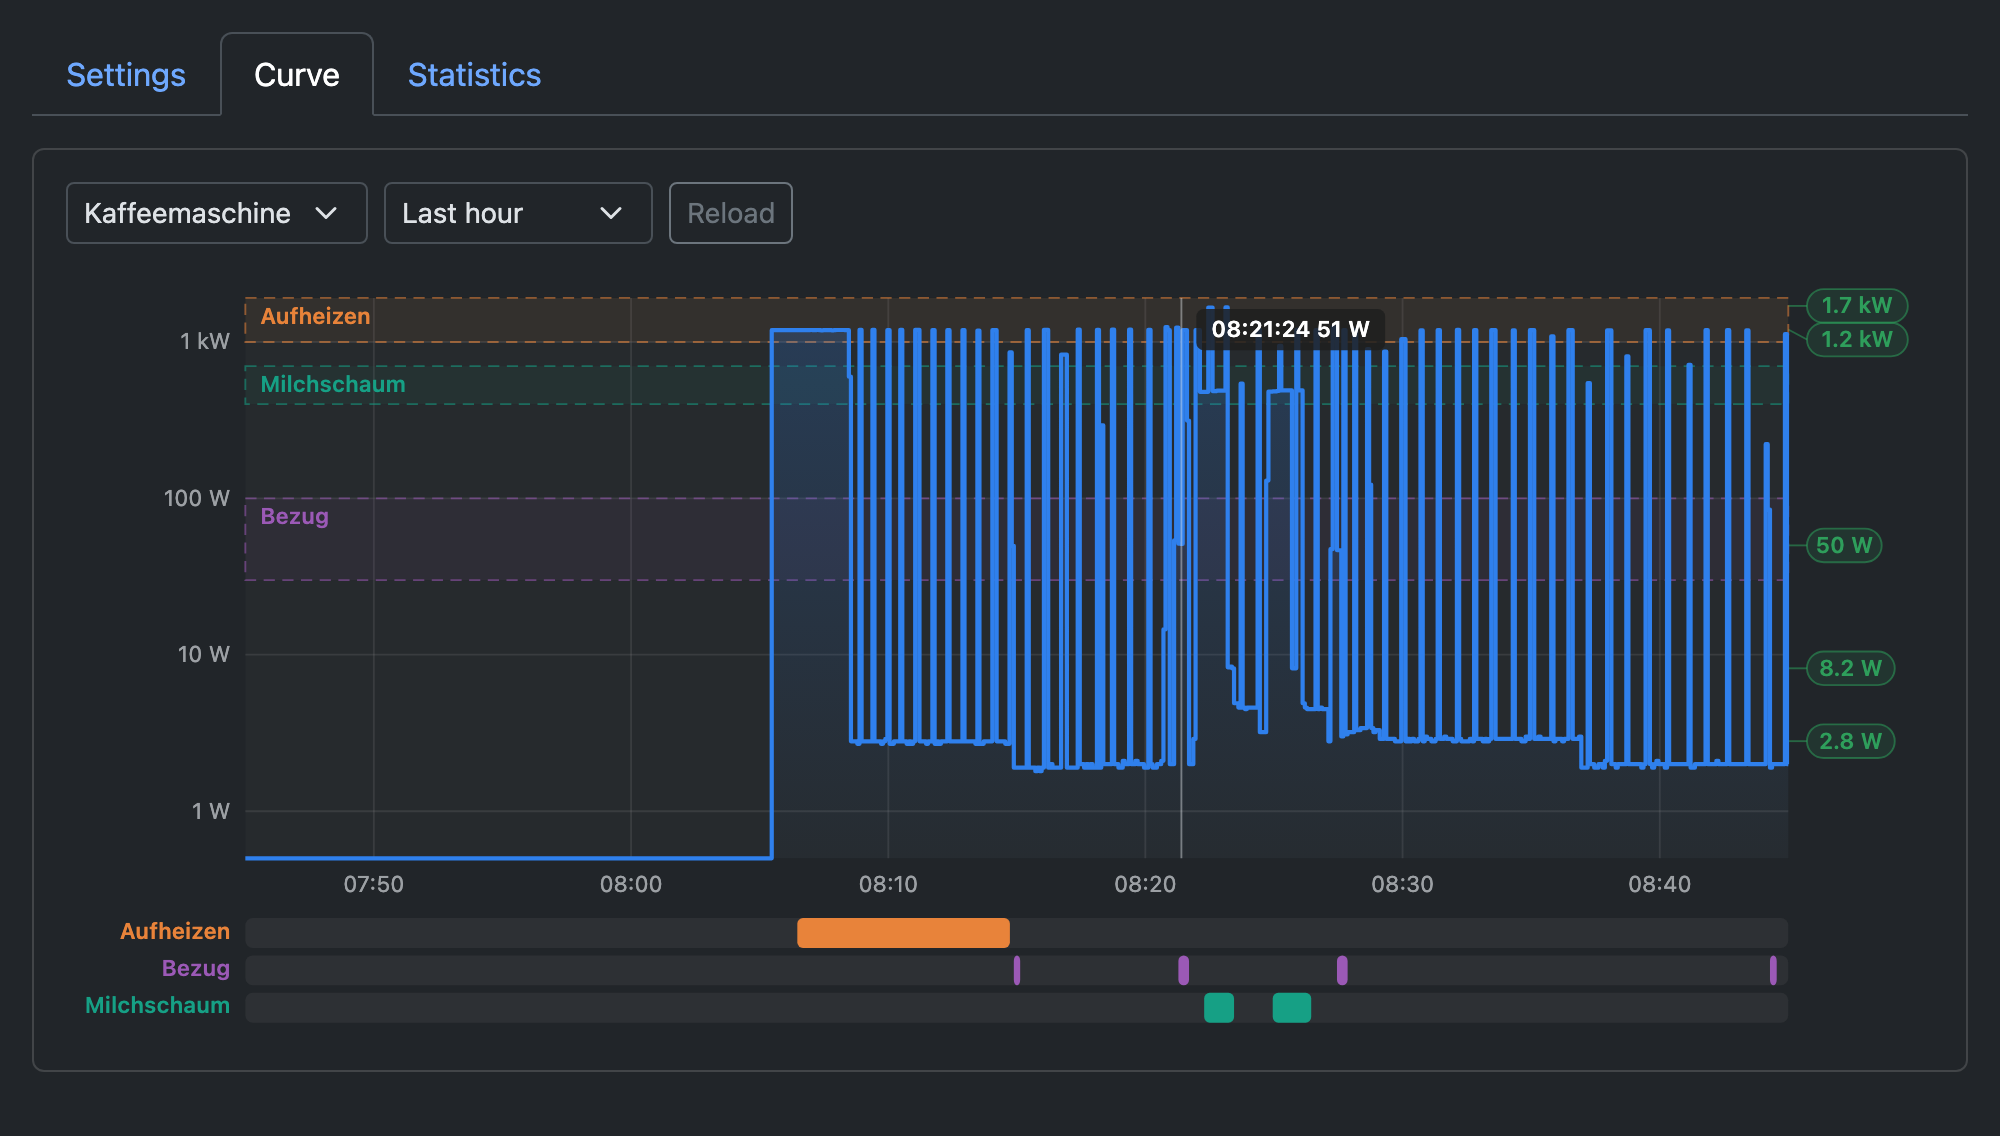
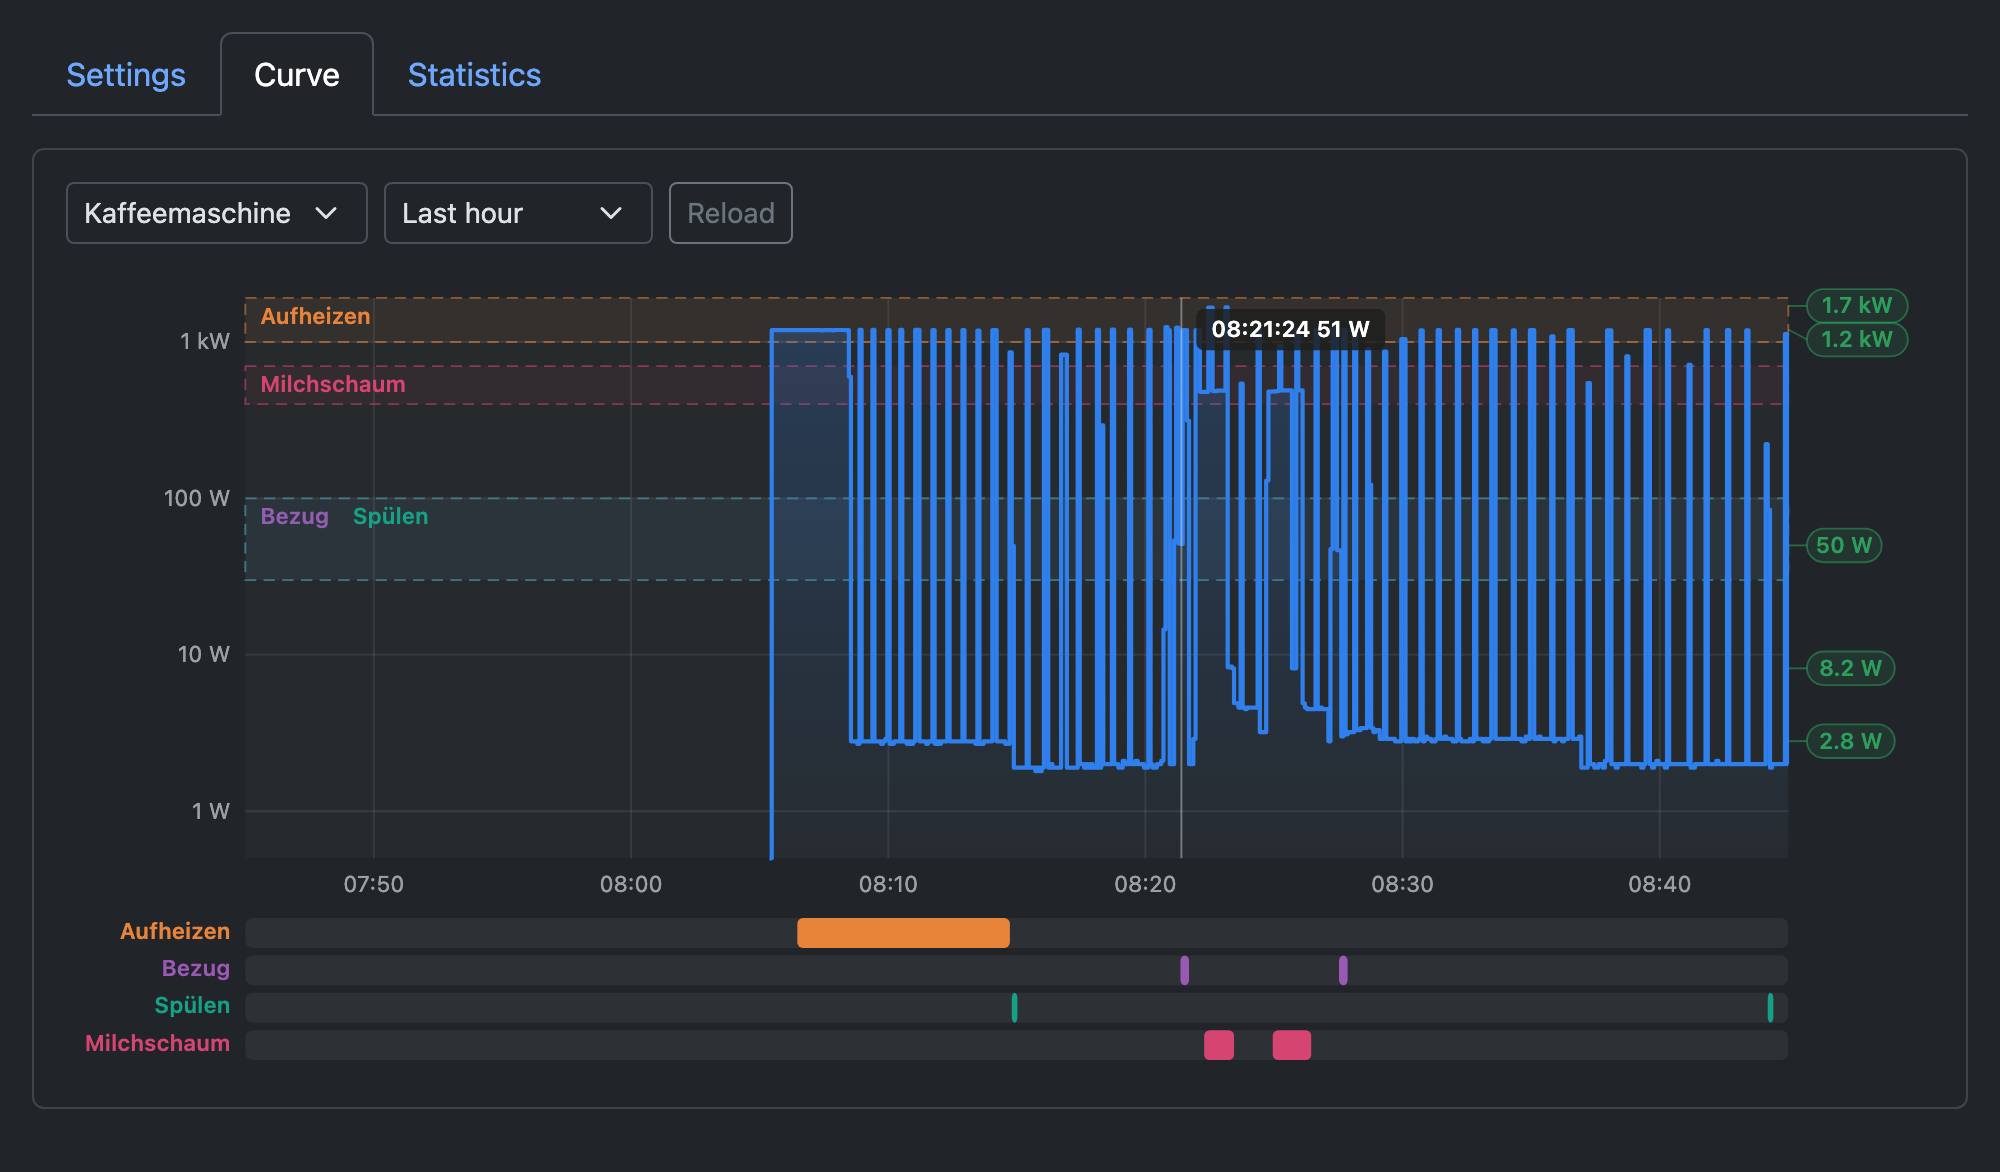
0.11.1: fresh screenshots, README brought up to date, side-by-side band labels
Claude-Session: https://claude.ai/code/session_013k9m3T7cAtsGWZfbXq9vGr

diff --git a/homebridge-ui/public/chart.js b/homebridge-ui/public/chart.js
@@ -182,13 +182,18 @@
       );
     }
 
-    // Phases already set up, each in its colour.
+    // Phases already set up, each in its colour. Two in the same range — a
+    // coffee and a rinse, told apart by how long — have their names side by
+    // side rather than on top of each other.
+    const labels = [];
     for (const phase of usable) {
       const y1 = f(yOf(Number.isFinite(phase.max) ? phase.max : 10 ** logMax));
       const y2 = f(yOf(phase.min));
+      const x = Math.max(PAD.left + 8, ...labels.filter((l) => Math.abs(l.y - y1) < 14).map((l) => l.end + 12));
+      labels.push({ y: y1, end: x + phase.name.length * 7.5 });
       parts.push(
         `<rect x="${PAD.left}" y="${y1}" width="${plotW}" height="${f(Math.max(3, y2 - y1))}" fill="${phase.colour}" fill-opacity="0.07" stroke="${phase.colour}" stroke-opacity="0.55" stroke-dasharray="6 4" class="om-phase"/>`,
-        `<text x="${PAD.left + 8}" y="${y1 + 14}" fill="${phase.colour}" class="om-phase-label">${escape(phase.name)}</text>`,
+        `<text x="${f(x)}" y="${y1 + 14}" fill="${phase.colour}" class="om-phase-label">${escape(phase.name)}</text>`,
       );
     }
 

diff --git a/README.md b/README.md
@@ -59,9 +59,10 @@ Each appliance is in one of three states:
 - **Finished**: the draw has stayed below the running level for longer than
   the longest pause in the programme.
 
-In HomeKit, Running is a switch that is on while the appliance runs. It
-goes off only when the appliance finishes, so "when Running turns off" is
-"when it is done". See [In the Home app](#in-the-home-app).
+In HomeKit, Running is a switch that is on while the appliance runs, or an
+occupancy sensor for a desk. It goes off only when the appliance finishes, so
+"when Running turns off" is "when it is done". See
+[In the Home app](#in-the-home-app).
 
 ### Learning
 
@@ -179,8 +180,8 @@ for its dates.
 
 Today counts from a plug's first reading of the day, so a plug added at noon
 shows its afternoon. A week or a month is shown only if a plug has been
-counted for all of it, and left empty until then. A year is shown once it is over even if the plug joined partway
-through, marked ¹ as part of a year: a plug added in September 2026 shows its
+counted for all of it, and left empty until then. A year is shown once it is
+over even if the plug joined partway through, marked ¹ as part of a year: a plug added in September 2026 shows its
 2026 from the 1st of January 2027. Where some plugs have a value and others do
 not yet, the total adds up those that have, and is marked with an asterisk.
 
@@ -192,7 +193,9 @@ all along, so ticking another phase shows its count from when the phase was
 set up, not from when it was ticked.
 
 The energy is worked out from the power readings, per local calendar day,
-while Homebridge is running. Time it was not running is not counted.
+while Homebridge is running. Time it was not running is not counted. The
+statistics keep only the total per plug and day, for a little over two years,
+so they do not depend on how many days of recordings are kept.
 
 ## Requirements
 
@@ -287,9 +290,9 @@ appliance is on.
     { "name": "Washing machine", "pairingCode": "3497-011-2332" },
     {
       "name": "Dryer",
-      "runningSwitch": false,
       "thresholds": { "runWatts": 20 }
-    }
+    },
+    { "name": "Desk", "runningAs": "occupancy" }
   ],
   "recordPower": true,
   "matterLogLevel": "warn"
@@ -298,7 +301,7 @@ appliance is on.
 
 | Option | Default | |
 | --- | --- | --- |
-| `devices[].name` | — | Name of the accessory, and of its switches, log lines and recording. |
+| `devices[].name` | — | The appliance. Its accessory is called "<name> Monitor", and its Running switch "<name> Running"; also the name in the log and the recordings. |
 | `devices[].pairingCode` | — | Setup code from the Home app, or an `MT:` QR payload. Only needed until paired. |
 | `devices[].runningSwitch` | `true` | Running in HomeKit, on while the appliance runs. |
 | `devices[].runningAs` | `switch` | `switch`, or `occupancy` for an occupancy sensor (a desk, taken or free). Changing it replaces it in HomeKit, with any automation on it. |
@@ -309,7 +312,7 @@ appliance is on.
 | `devices[].phases` | none | Phases: `name`, `minWatts`, and optionally `count` (show it as the appliance's count on the Statistics tab), `maxWatts` (none for no upper end, as for heating), `minSeconds` (in the range, added up, before it is on; 5), `holdSeconds` (out of it before it is off; 30), `maxSeconds` (only draws shorter than this, in the range; any; see above) and `sensor` (its switch in HomeKit; `true`). |
 | `devices[].pollSeconds` | none | Ask the plug for its power this often, as well as listening for what it reports. See below. |
 | `recordPower` | `true` | Write each reading to a file per day under `appliance-monitor/power/`. The Curve tab needs it. |
-| `recordDays` | `14` | How many days of those files to keep. |
+| `recordDays` | `14` | How many days of those files to keep, for the Curve tab. The statistics do not need them. |
 | `matterLogLevel` | `warn` | How much of matter.js's own logging to show. |
 
 ## Files
@@ -319,11 +322,13 @@ All files are kept in the Homebridge storage folder, under `appliance-monitor/`:
 - `matter/`: the controller's fabric, certificates and what it knows about
   the plugs. Deleting it unpairs everything, as far as the plugin is concerned.
 - `nodes.json`: which configured name is which Matter node.
-- `devices.json`: what each appliance has learned, and the state it is in, so
-  that a running appliance is still running after a restart. Remove an appliance's `learned` entry
-  (with the child bridge stopped) to have it learn afresh.
-- `energy.json`: watt-hours per plug and day, for the Statistics tab. Written
-  every five minutes. Plugs removed from the config keep their history here.
+- `devices.json`: what each appliance has learned, the state it is in, so that
+  a running appliance is still running after a restart, and its counts.
+  Remove an appliance's `learned` entry (with the child bridge stopped) to
+  have it learn afresh.
+- `energy.json`: watt-hours per plug and day, for the Statistics tab, kept for
+  a little over two years. Written every five minutes. Plugs removed from the
+  config keep their history here.
 - `power/`: one file per day, `time,device,endpoint,watts`, one line per
   reading. Older than `recordDays` is deleted.
 
@@ -332,7 +337,7 @@ All files are kept in the Homebridge storage folder, under `appliance-monitor/`:
 On each start, one line per plug: what it is, what it draws, its state, and
 whether it has learned yet. Everything a plug offers is listed once, when it
 is paired. After that the log has the changes: Running, Finished, Off, each
-phase starting and ending, what was learned, and a plug that became
+phase starting and ending (or, for a phase with "shorter than", having happened), what was learned, and a plug that became
 unreachable or came back. The single readings are in the recordings, not in
 the log.
 

diff --git a/CHANGELOG.md b/CHANGELOG.md
@@ -6,6 +6,19 @@ adheres to [semantic versioning](https://semver.org/spec/v2.0.0.html).
 
 ## [Unreleased]
 
+## [0.11.1] — 2026-10-01
+
+### Fixed
+
+- On the Curve tab, phases in the same range (a coffee and a rinse) have their
+  names side by side instead of on top of each other.
+
+### Changed
+
+- New screenshots in the README, which is brought up to date, and the
+  settings say that the statistics do not depend on how many days of
+  recordings are kept.
+
 ## [0.11.0] — 2026-10-01
 
 ### Added
@@ -163,7 +176,8 @@ The first published version.
 - A short log: one line per plug on start, what a plug offers once when it is
   paired, then only what changes.
 
-[Unreleased]: https://github.com/rummeyer/homebridge-appliance-monitor/compare/v0.11.0...HEAD
+[Unreleased]: https://github.com/rummeyer/homebridge-appliance-monitor/compare/v0.11.1...HEAD
+[0.11.1]: https://github.com/rummeyer/homebridge-appliance-monitor/compare/v0.11.0...v0.11.1
 [0.11.0]: https://github.com/rummeyer/homebridge-appliance-monitor/compare/v0.10.3...v0.11.0
 [0.10.3]: https://github.com/rummeyer/homebridge-appliance-monitor/compare/v0.10.2...v0.10.3
 [0.10.2]: https://github.com/rummeyer/homebridge-appliance-monitor/compare/v0.10.1...v0.10.2
